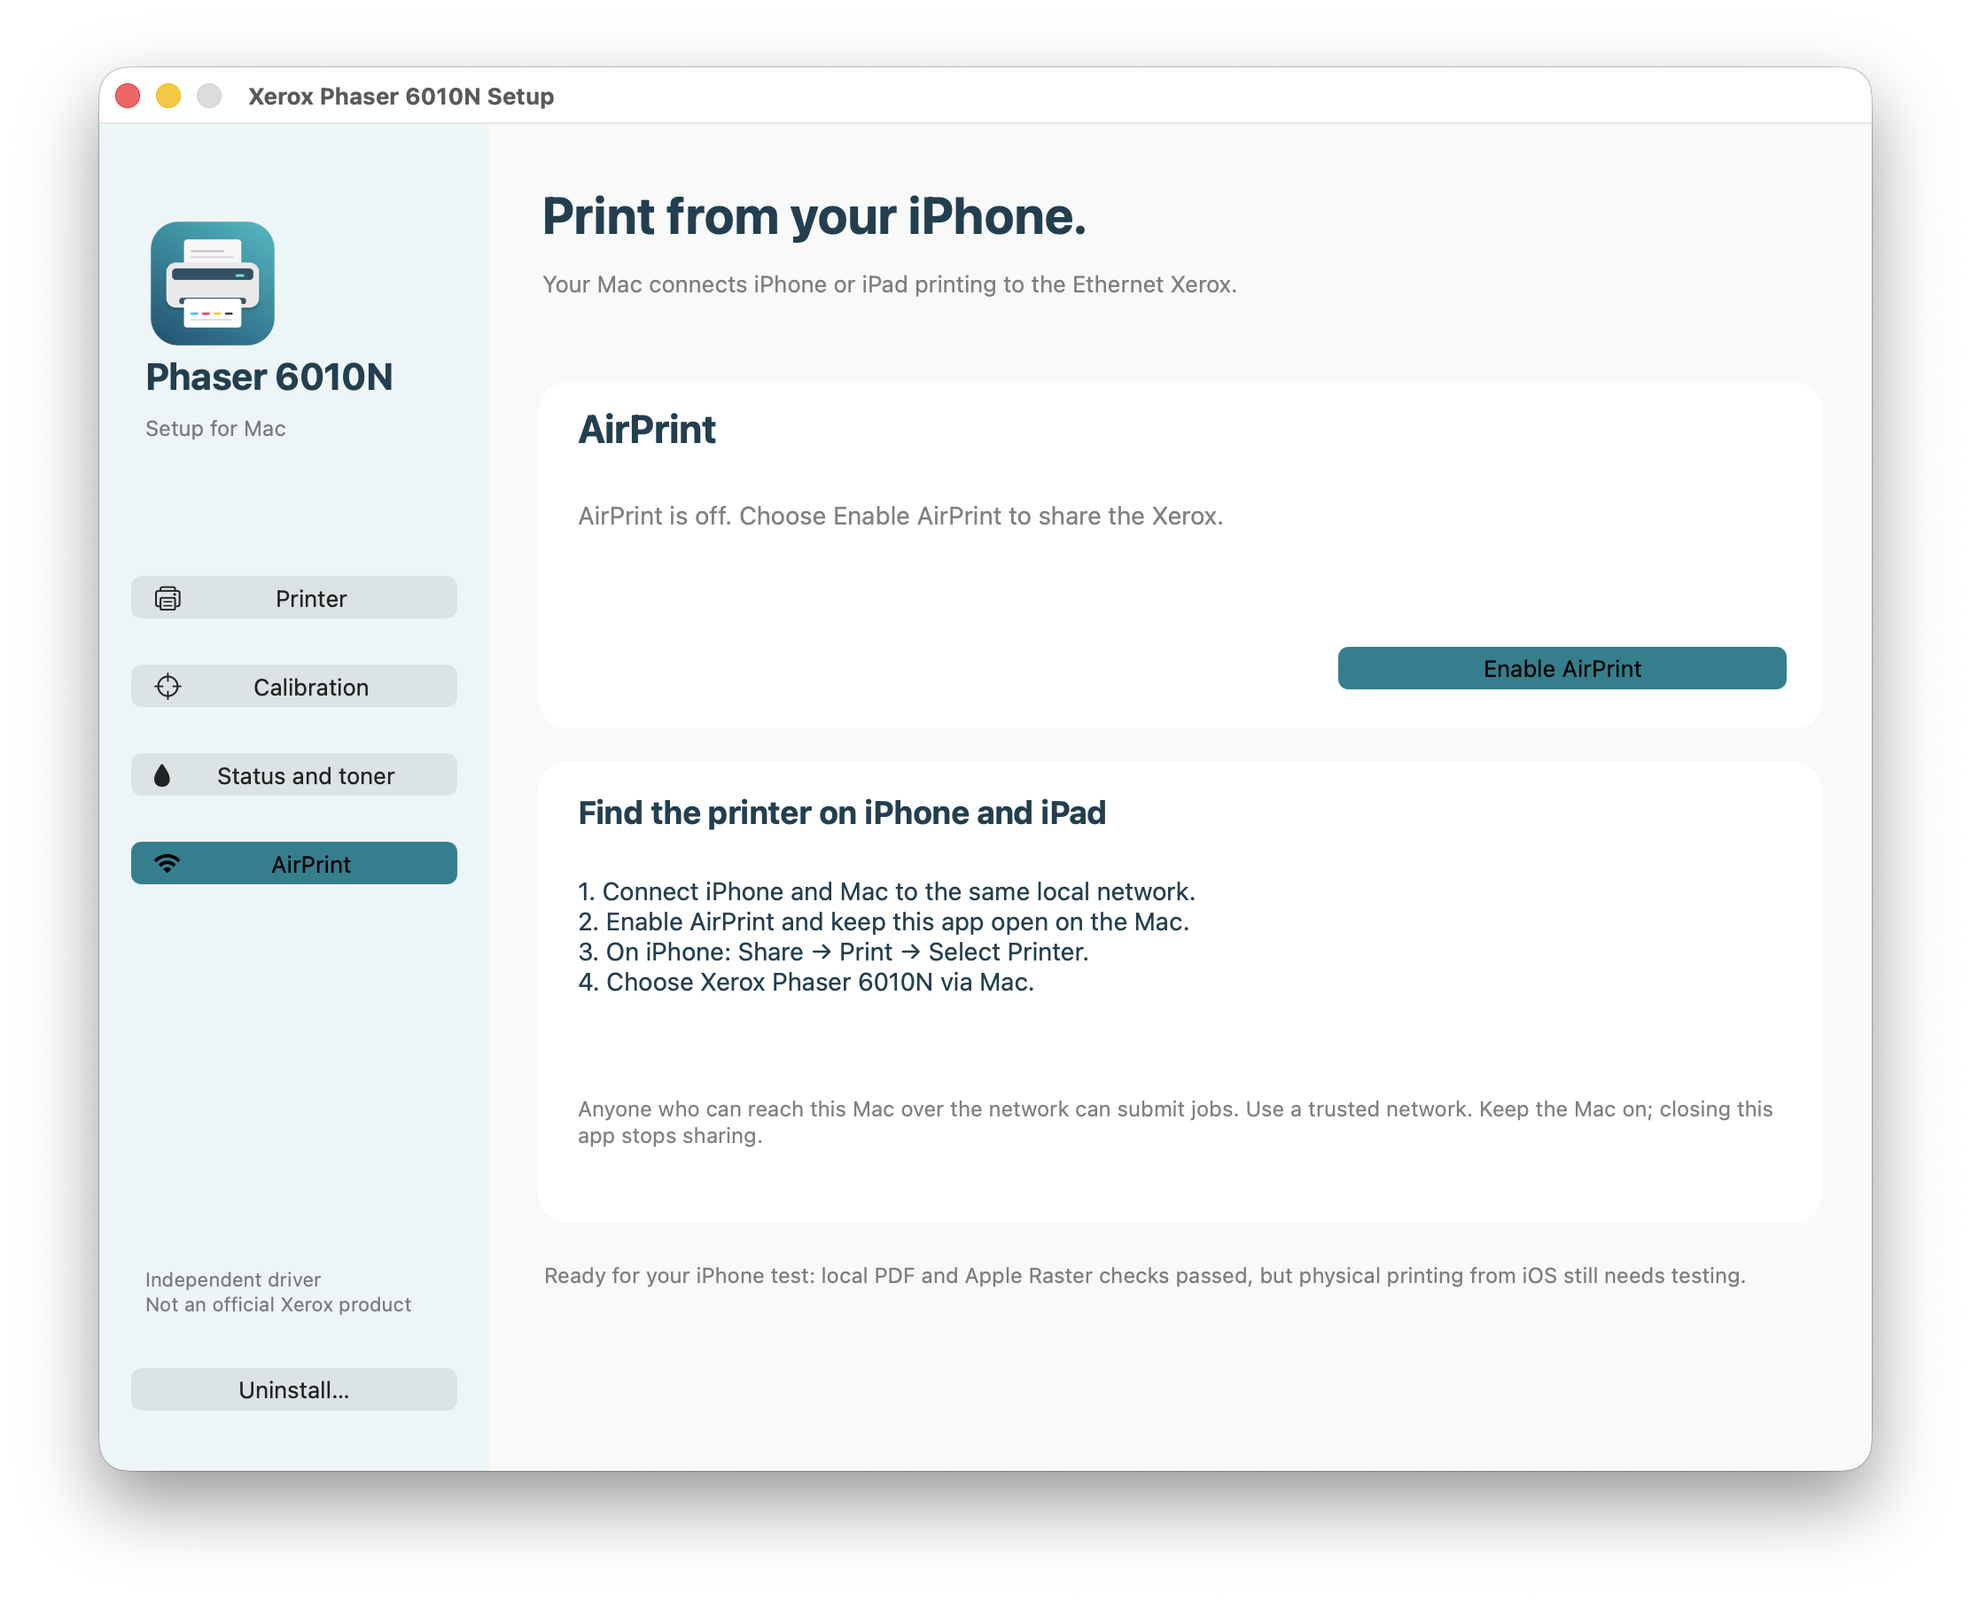
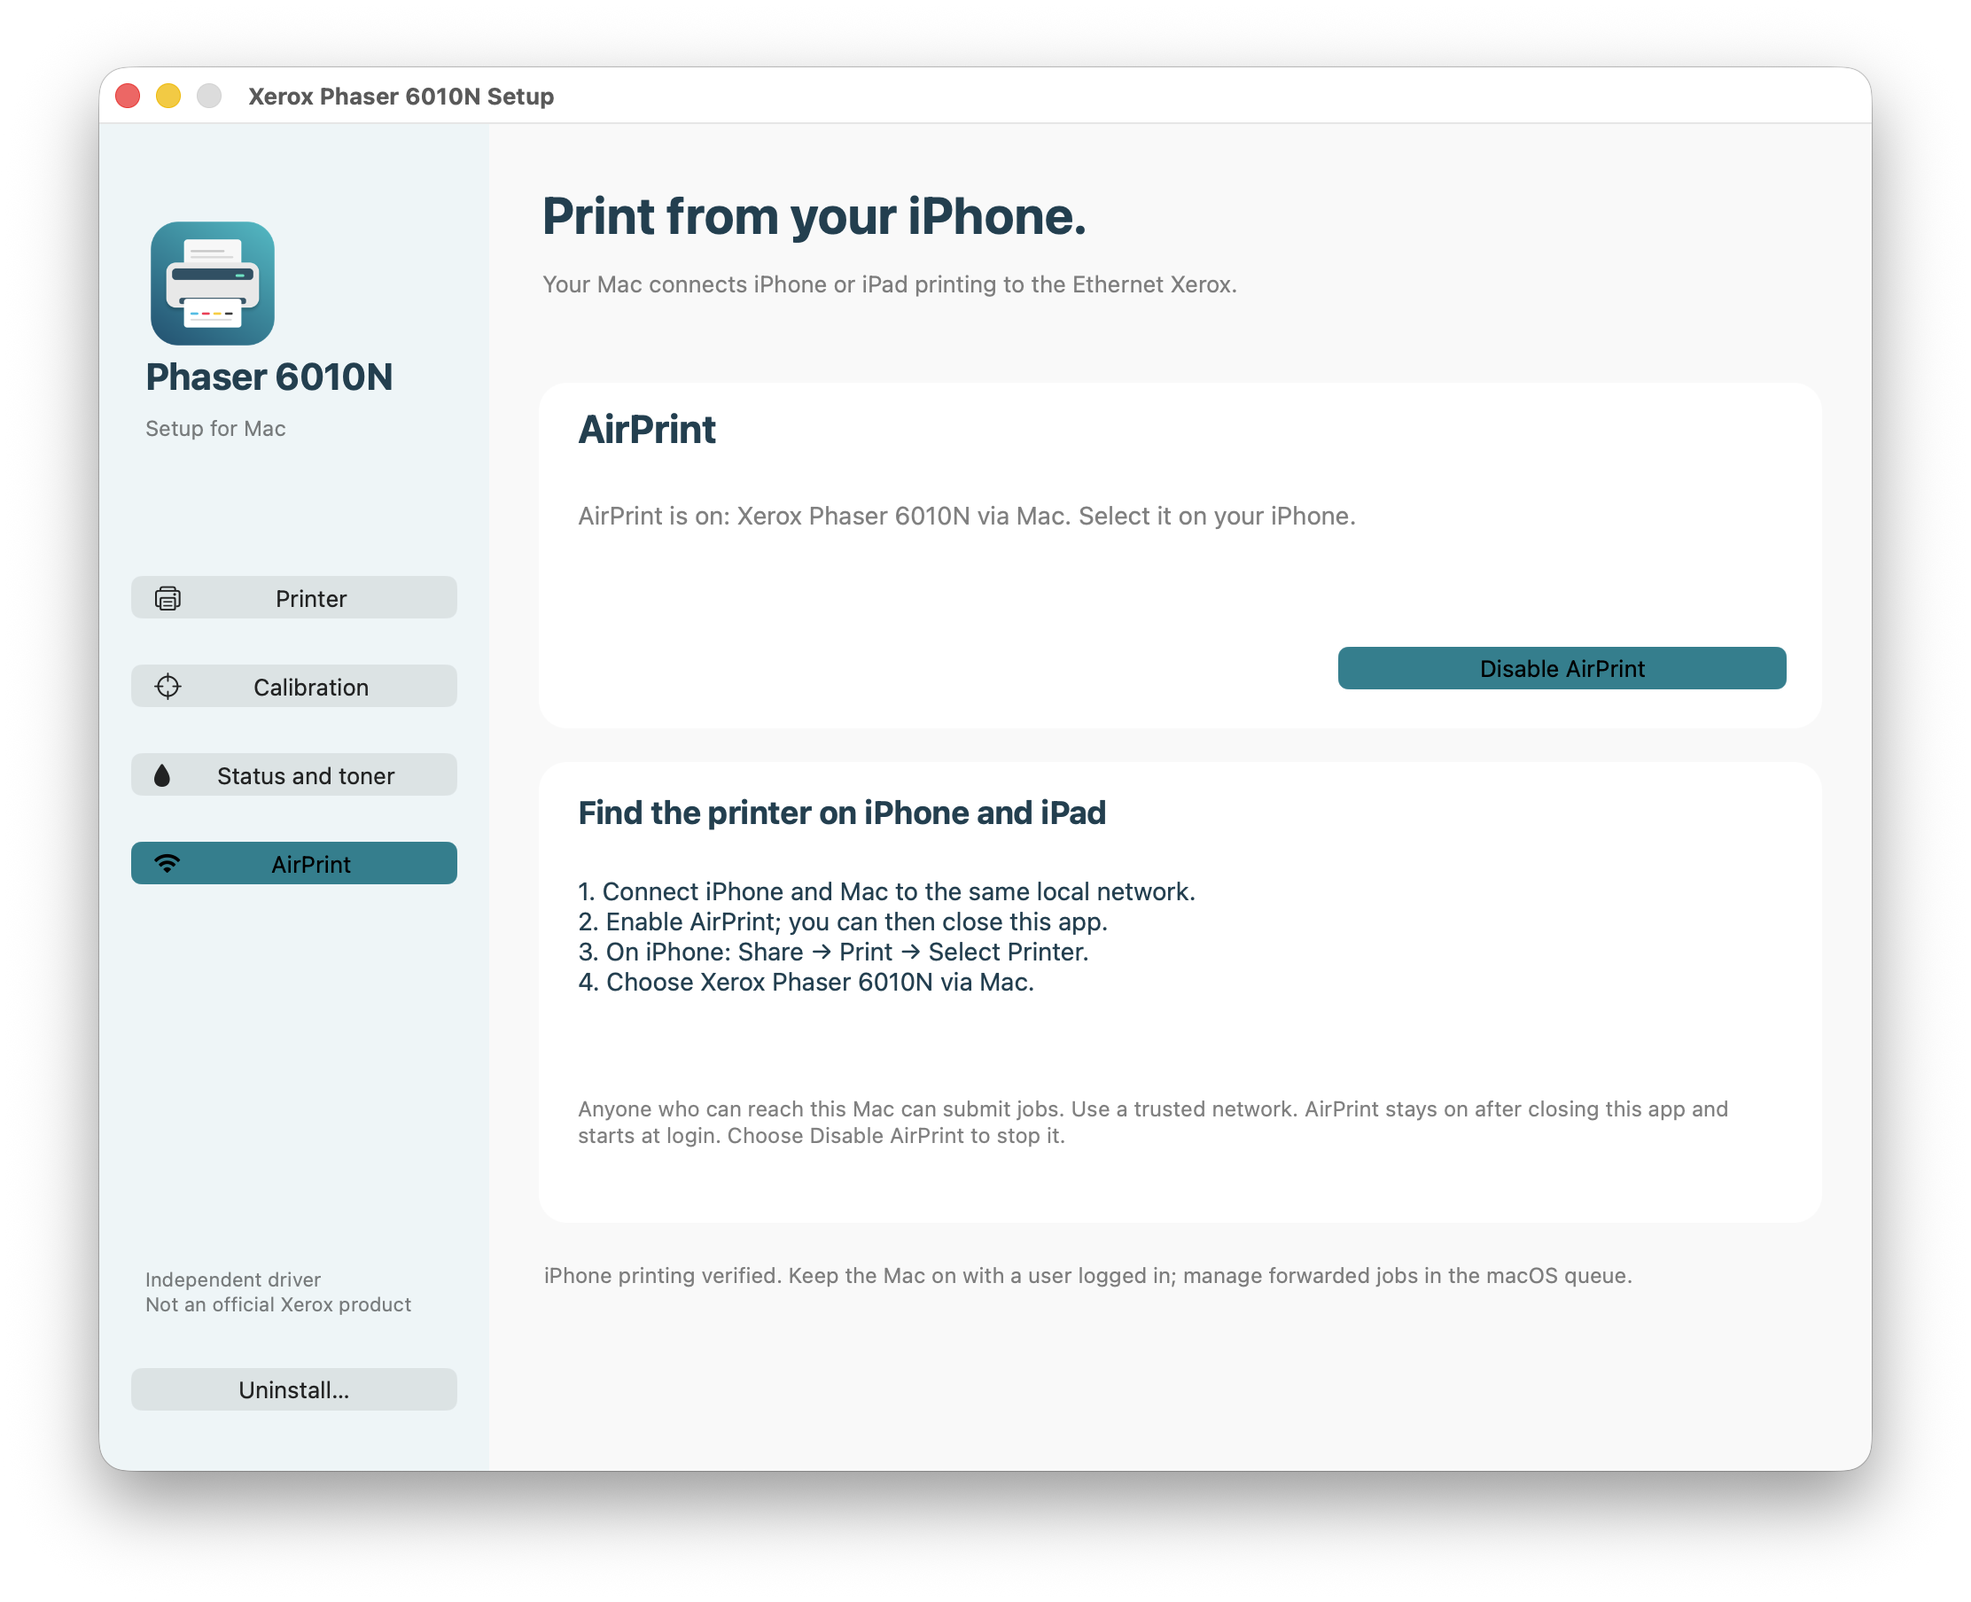
Record 1.3.0 locked-screen iPhone printing and current AirPrint screenshot

diff --git a/docs/screenshots/README.md b/docs/screenshots/README.md
@@ -1,21 +1,18 @@
-# Application screenshots / Schermate dell'app
+# Application screenshots / Schermate dell’app
 
-Three original screenshots supplied by the project owner on 19 October 2026, after installing version 1.1.0 on the test Mac. The interface language is English. These are actual running-application captures, not generated mockups. The original images are preserved without editing.
+Original owner-supplied captures from 19 October 2026, preserved without editing. Printer, toner and calibration show version 1.1.0; AirPrint shows version 1.3.0. All use the English interface; Italian is also supported.
 
-Tre schermate originali fornite dall'autore il 19 ottobre 2026 dopo l'installazione della versione 1.1.0 sul Mac di prova, con interfaccia inglese. Sono acquisizioni reali dell'app in esecuzione, conservate senza modifiche.
+Schermate originali fornite dall’autore il 19 ottobre 2026, conservate senza modifiche. Stampante, toner e calibrazione mostrano la 1.1.0; AirPrint mostra la 1.3.0. Interfaccia inglese; è disponibile anche l’italiano.
 
 | File | English | Italiano |
 | --- | --- | --- |
-| [printer.png](printer.png) | Network printer discovered and selected; manual IP entry | Stampante trovata e selezionata; inserimento IP manuale |
-| [status-toner.png](status-toner.png) | Ready state, updated toner levels and tools | Stato pronta, toner aggiornati e strumenti |
-| [calibration.png](calibration.png) | Measurement fields, saved corrections, PDF language and print button | Misure, correzioni salvate, lingua PDF e pulsante stampa |
+| [printer.png](printer.png) | Discovery and IP setup | Ricerca e configurazione IP |
+| [status-toner.png](status-toner.png) | State and live toner estimates | Stato e stime toner aggiornate |
+| [calibration.png](calibration.png) | Measurements and correction controls | Misure e correzioni |
+| [airprint.png](airprint.png) | AirPrint enabled, version 1.3.0 | AirPrint attivo, versione 1.3.0 |
 
-The private LAN IP, toner percentages and calibration values shown are specific to this setup. They are not defaults or instructions to copy. The screenshots confirm visible English layouts and live status, not that every button or physical printing scenario has been tested.
+The owner separately confirmed iPhone discovery and physical printing with the Mac locked on 1.3.0. Closing the MacBook lid interrupted sharing in the tested setup. These reports do not establish app-closed operation, login restart or every paper/copy combination.
 
-IP locale, percentuali toner e calibrazione sono specifici della configurazione di prova: non sono valori predefiniti da copiare. Le immagini documentano l'interfaccia inglese e lo stato aggiornato; non attestano da sole la verifica di ogni pulsante o scenario di stampa.
+L’autore ha confermato separatamente rilevamento e stampa fisica da iPhone con il Mac bloccato sulla 1.3.0. Chiudendo il coperchio del MacBook la condivisione si interrompe nella configurazione provata. Queste prove non attestano app chiusa, riavvio all’accesso o ogni combinazione carta/copie.
 
-## AirPrint capture / Schermata AirPrint
-
-[airprint.png](airprint.png) is an additional original owner-supplied capture from before 1.3.0, preserved without editing. Its keep-app-open and pending-iOS-test instructions are historical: 1.3.0 introduces the background agent; physical iPhone printing was confirmed with 1.2.1.
-
-La schermata AirPrint originale precede la 1.3.0 ed è conservata senza modifiche. L’obbligo di tenere aperta l’app e la prova iOS ancora da svolgere sono indicazioni storiche: la 1.3.0 introduce il servizio in background; la stampa fisica da iPhone era già confermata con la 1.2.1.
+IP, toner and calibration values belong to the test setup and are not defaults to copy. IP, toner e calibrazione appartengono alla configurazione di prova e non sono valori predefiniti da copiare.

diff --git a/README.it.md b/README.it.md
@@ -10,7 +10,7 @@ La Xerox Phaser 6010N è una stampante ancora valida, ma il suo software origina
 
 Il progetto è destinato ai Mac Apple Silicon delle famiglie **M1, M2, M3, M4, M5 e M6**, con **macOS 26 o successivo**. È il requisito dell'architettura ARM64: non significa che ogni modello o futura versione di macOS sia stato provato fisicamente. La stampa è stata verificata su un Mac Apple Silicon con versione del sistema riportata come macOS 26.6.2. La [pagina dei test](docs/TESTING.md) distingue le verifiche eseguite da quelle ancora necessarie. Per il supporto del produttore consulta i [download ufficiali Xerox](https://www.support.xerox.com/en-us/product/phaser-6010/downloads).
 
-**È supportata esclusivamente la Phaser 6010N collegata tramite Ethernet.** Il Mac può essere connesso in Wi-Fi alla stessa rete locale. Questa versione non supporta USB, Mac Intel o altri modelli di stampante. La stampa fisica da iPhone è confermata con la 1.2.1; la nuova gestione in background della 1.3.0 richiede la verifica dopo installazione, descritta sotto.
+**È supportata esclusivamente la Phaser 6010N collegata tramite Ethernet.** Il Mac può essere connesso in Wi-Fi alla stessa rete locale. Questa versione non supporta USB, Mac Intel o altri modelli di stampante. Con la 1.3.0 l’autore ha confermato rilevamento e stampa da iPhone con il Mac bloccato. Chiudendo il coperchio del MacBook la condivisione si interrompe nella configurazione provata. Dettagli sotto.
 
 ## Installazione e prima stampa
 
@@ -49,9 +49,9 @@ Immagini reali della versione 1.1.0 installata sul Mac di prova, con interfaccia
 
 **AirPrint — condivisione con iPhone e iPad**
 
-![Attivazione AirPrint e istruzioni iPhone, prima della versione 1.3.0](docs/screenshots/airprint.png)
+![AirPrint attivo nella versione 1.3.0](docs/screenshots/airprint.png)
 
-Questa schermata precede la 1.3.0: l’obbligo di tenere aperta l’app e l’avviso sulla prova iOS sono storici. Nella 1.3.0 il servizio in background permette di chiudere l’app; la stampa fisica da iPhone è stata confermata con la 1.2.1.
+Schermata originale della versione 1.3.0 con AirPrint attivo, fornita dall’autore. Rilevamento e stampa da iPhone sono confermati con il Mac bloccato; chiudendo il coperchio del MacBook la condivisione si interrompe nella configurazione provata.
 
 I valori di IP, toner e calibrazione mostrati sono quelli del Mac di prova, non impostazioni da copiare. [Dettagli delle immagini](docs/screenshots/README.md).
 
@@ -113,4 +113,4 @@ Grazie agli autori di foo2hbpl1/foo2zjs, ai collaboratori Ghostscript e a chi ha
 
 ## Revisione dettagliata del codice
 
-La [revisione del 19 ottobre](docs/REVIEW-2026-10-19.md) documenta difetti confermati, correzioni, misure e verifiche ancora necessarie. Il servizio in background della 1.3.0 e i nuovi percorsi di carta/copie richiedono una prova fisica dopo l’installazione.
+La [revisione del 19 ottobre](docs/REVIEW-2026-10-19.md) documenta difetti confermati, correzioni, misure e verifiche ancora necessarie. Con la 1.3.0 sono confermati rilevamento e stampa da iPhone con il Mac bloccato. App chiusa, riavvio all’accesso e nuove combinazioni carta/copie richiedono verifiche separate.

diff --git a/README.md b/README.md
@@ -10,7 +10,7 @@ The Xerox Phaser 6010N can still print well, but its original software belongs t
 
 The target is Apple Silicon Macs — M1, M2, M3, M4, M5 and M6 families — running **macOS 26 or later**. This describes the ARM64 build target, not a physical test on every chip or future macOS release. Printing was physically tested on an Apple Silicon Mac reported as macOS 26.6.2. See [testing](docs/TESTING.md) for the distinction between tested behavior and remaining checks. Consult [Xerox's official downloads](https://www.support.xerox.com/en-us/product/phaser-6010/downloads) for vendor support.
 
-**Only the Xerox Phaser 6010N connected by Ethernet is supported.** The Mac can use Wi-Fi on the same local network. USB, Intel Macs and other printer models are outside this release's support. Physical iPhone printing was confirmed with 1.2.1; the new background lifecycle in 1.3.0 needs installation acceptance. See below.
+**Only the Xerox Phaser 6010N connected by Ethernet is supported.** The Mac can use Wi-Fi on the same local network. USB, Intel Macs and other printer models are outside this release's support. With 1.3.0, the owner confirmed iPhone discovery and physical printing while the Mac is locked. Closing the MacBook lid interrupted sharing in the tested setup. See below.
 
 ## Install and print
 
@@ -49,9 +49,9 @@ Real captures of version 1.1.0 installed on the test Mac, using the English inte
 
 **AirPrint — sharing with iPhone and iPad**
 
-![AirPrint enable control and iPhone instructions, before version 1.3.0](docs/screenshots/airprint.png)
+![AirPrint enabled in version 1.3.0](docs/screenshots/airprint.png)
 
-This additional capture predates 1.3.0: its instructions to keep the app open and its pending iOS test message are historical. In 1.3.0 the background service allows closing the app; physical iPhone printing was confirmed with 1.2.1.
+Original capture of version 1.3.0 with AirPrint enabled, supplied by the owner. iPhone discovery and physical printing were confirmed with the Mac locked; closing the MacBook lid interrupted sharing in the tested setup.
 
 The IP address, toner levels and calibration values belong to the test setup; they are not settings to copy. See [image details](docs/screenshots/README.md).
 
@@ -113,4 +113,4 @@ Thanks to the upstream foo2hbpl1/foo2zjs contributors, Ghostscript contributors 
 
 ## Detailed code review
 
-The [19 October review](docs/REVIEW-2026-10-19.md) records confirmed defects, fixes, benchmarks and remaining acceptance work. The 1.3.0 background service and new copy/media paths need physical acceptance after installation.
+The [19 October review](docs/REVIEW-2026-10-19.md) records confirmed defects, fixes, benchmarks and remaining acceptance work. The owner confirmed iPhone discovery and printing with the Mac locked on 1.3.0. App-closed operation, login restart and new copy/media combinations still require separate acceptance.

diff --git a/docs/TESTING.md b/docs/TESTING.md
@@ -41,3 +41,8 @@ The GUI controller is tested directly by `./tests/bridge.sh`, using a private fi
 ## 1.2.1 negotiation regression
 
 The owner reproduced an iPhone Waiting/Printing loop against the macOS executable. Read-only job history showed no accepted jobs. Standard A4 media-col validation failed because rounded PPD dimensions exported 20990 × 29704 rather than 21000 × 29700; corrected dimensions now pass tests/airprint-validate-a4.test. A temporary private IPP server then accepted the owner's iPhone Create-Job/Send-Document and completed conversion; the owner confirmed the iPhone queue cleared. This diagnostic mode did not forward the document to the printer. The final private server build also passes A4 validation, chunked create/send, controller stop/restart and PDF/URF conversion checks. The owner subsequently uninstalled the older package, installed 1.2.1 and confirmed that physical printing from the iPhone worked perfectly. This verifies that reported scenario on the owner's setup; it does not establish every iOS version, paper/copy combination or Mac client.
+
+
+## 1.3.0 physical acceptance update — 19 October 2026
+
+The owner confirmed that the iPhone discovers the printer and physically prints while the Mac is locked (lock screen, with the user still logged in). Closing the MacBook lid interrupted sharing in the tested setup. Locking the screen is distinct from logging out or suspending the system. This report does not separately confirm operation with the setup app fully quit, restart after login, display-off duration or new paper/copy combinations. The supplied 1.3.0 screenshot shows AirPrint enabled and is preserved in docs/screenshots/airprint.png.

diff --git a/docs/SHARING.md b/docs/SHARING.md
@@ -13,3 +13,8 @@ Reachable clients can submit jobs without authentication. Do not expose TCP 8631
 The private IPP executable has an ad hoc integrity signature; it is not an Apple certification claim. The macOS converter and libraries are used without modification. Local IPP discovery/capability queries, PDF/URF conversion and app-controller lifecycle tests are separate from physical iPhone/iPad acceptance. The owner confirmed successful physical printing from the iPhone after removing the older package and installing 1.2.1. Other client/option combinations remain to be tested. If the printer does not appear, check same-network Wi-Fi, guest/client isolation, local-network permissions, firewall and whether another process already uses port 8631.
 
 The old Mac sharing button remains available for standard macOS Printer Sharing, independently of this bridge. Additional design and development instructions are in [airprint/README.md](../airprint/README.md).
+
+
+## 1.3.0 physical acceptance update — 19 October 2026
+
+The owner confirmed that the iPhone discovers the printer and physically prints while the Mac is locked (lock screen, with the user still logged in). Closing the MacBook lid interrupted sharing in the tested setup. Locking the screen is distinct from logging out or suspending the system. This report does not separately confirm operation with the setup app fully quit, restart after login, display-off duration or new paper/copy combinations. The supplied 1.3.0 screenshot shows AirPrint enabled and is preserved in docs/screenshots/airprint.png.

diff --git a/docs/REVIEW-2026-10-19.md b/docs/REVIEW-2026-10-19.md
@@ -2,7 +2,7 @@
 
 ## Esito e limiti
 
-Revisione del codice, dei componenti di stampa e del pacchetto locale 1.3.0. La stampa fisica da iPhone con 1.2.1 è stata confermata dal proprietario. Le modifiche 1.3.0 hanno superato i controlli locali descritti sotto; il nuovo avvio in background deve ancora essere confermato dopo installazione sul Mac. Non è una certificazione Apple né un audit completo di sicurezza.
+Revisione del codice, dei componenti di stampa e del pacchetto locale 1.3.0. La stampa fisica da iPhone con 1.2.1 è stata confermata dal proprietario. Le modifiche 1.3.0 hanno superato i controlli locali descritti sotto; l’autore ha successivamente confermato rilevamento e stampa da iPhone con il Mac bloccato sulla schermata di blocco. Chiudendo il coperchio del MacBook la condivisione si interrompe nella configurazione provata. App chiusa e riavvio all’accesso restano verifiche separate. Non è una certificazione Apple né un audit completo di sicurezza.
 
 ## Difetti confermati e correzioni
 

diff --git a/CHANGELOG.md b/CHANGELOG.md
@@ -2,6 +2,8 @@
 
 ## 1.3.0
 
+- Owner acceptance update: iPhone discovery and physical printing confirmed with the Mac locked; closing the MacBook lid interrupts sharing in the tested setup. Added the current AirPrint screenshot.
+
 - AirPrint now runs through an opt-in per-user LaunchAgent: survives closing the utility and restarts at login; Disable removes the agent. Prevents idle system sleep while allowing display sleep.
 - Disabled server-side Print-URI/Send-URI, sample HTML job pages and fictitious supplies; redacted job titles/users in IPP responses.
 - Excluded Mac AirPrint bridges from direct-hardware discovery; invalidated stale discovery callbacks on stop.
